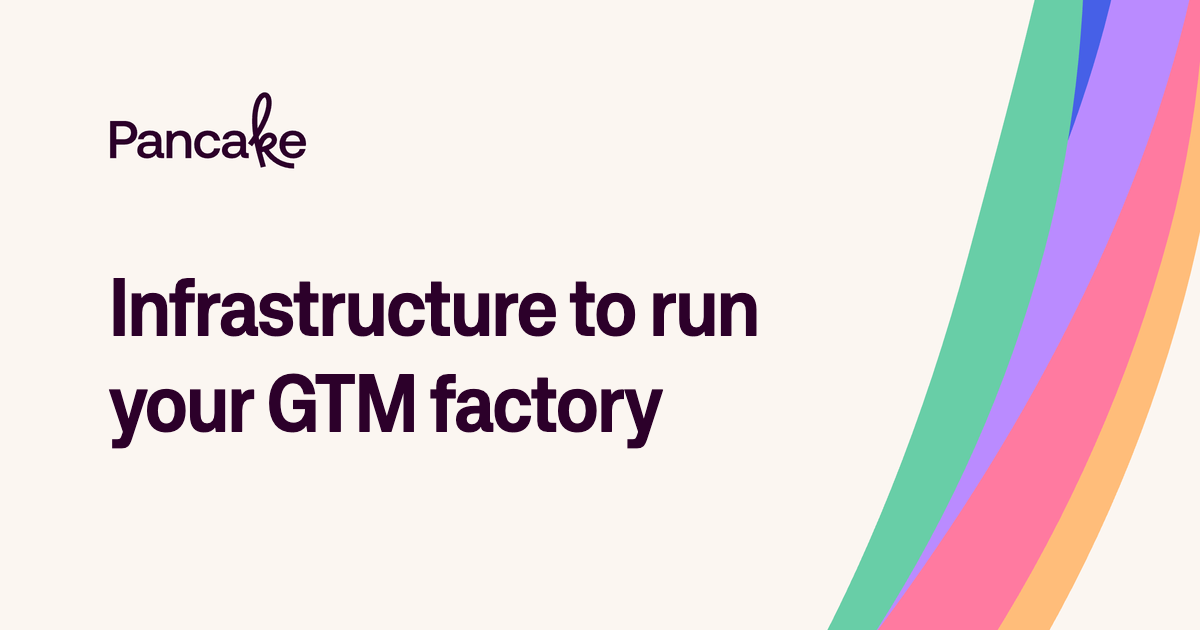
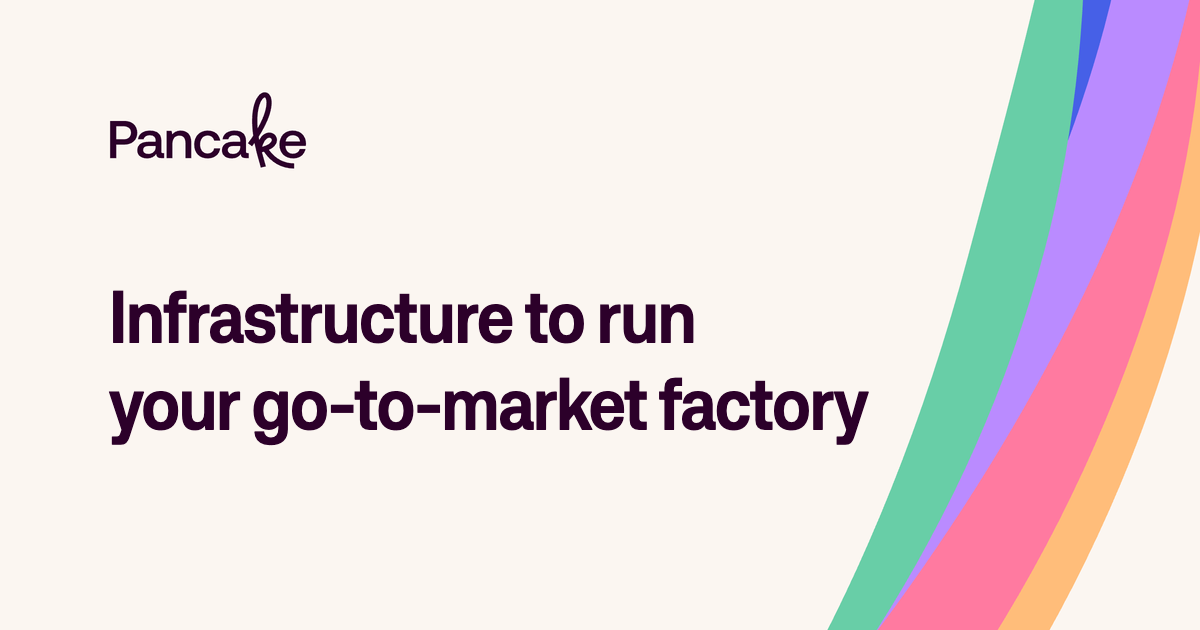
feat(home): the big H1, "Infrastructure to run / your go-to-market factory"
Founder 2026-10-27: "let's make the h1 way bigger like it's the trend",
"should be in 2 lines", "Maybe write go-to-market".

- Desktop: the H1 runs from the designer's text column to the nav's right
  edge, as big as its longer line allows (10.88 em): 111 px from 1440 wide,
  150 at most; on shorter windows it gives way so the rotating rainbow stays
  clear (>= 26 px over the whole loop at 14 sizes, rings.mjs in WebKit; 89 px
  at 1440x780). The lede, the buttons and the toggle sit in one row under it;
  the hero fills the first screen (the demo window's bar peeks again from
  ~980 px tall). The copy no longer scales on short windows.
- Agents view: the mono headline fills the same box (0.705 x the H1), the
  install box and its friends sit in the row, the switch keeps its pixel.
- Tablets and phones: the H1 at the full text width on two lines (30 px on a
  390 phone: the longer line sets it).
- /demo repeats the H1; the share card prints it (og-image-2026-10-27-b.png,
  74 px to stay 57 px off the rainbow), titles and alt text follow.

Changed region(s): [[0.0925, 0.573, 0.74, 0.7238], [0.0925, 0.4222, 0.6475, 0.5429]]

diff --git a/app/_styles/landing-v3/hero.css b/app/_styles/landing-v3/hero.css
@@ -200,54 +200,86 @@
   }
 }
 
-/* ── Homepage hero text block — Figma V2 4911:355 ──────────────────────
-   H1 "Frame 180" 4911:364 (259, 518, 656×160) and the right column "Frame
-   181" 4911:366 (1027, 474, 368×196: toggle row 28, gap 24, lede 72, gap
-   24, buttons 48), both bottom-anchored. V2 draws them at bottom offsets
-   99 / 107; the homepage keeps the founder's 36px drop (2026-09-01 "baisse
-   un peu le bloc h1/h2/cta": the green band ran too close to the "You"),
-   so 63 / 71 — the V2 composition 36px lower (decision 2026-10-09; V2's
-   bands clear the "Y" by ~17px at 99, ~53px here). Both blocks are
-   transform-free (left offsets instead of translateX(-50%)): the agents
-   view's scroll assembly drifts them through .lp-hs-hero (translate/opacity,
-   audience-agents.css), and a scroll driver that writes `transform` would
-   otherwise erase the centring. The humans view no longer moves them
-   (2026-10-12: the hero copy stays put while the window grows). */
-.lp-hero--home .lp-hero-title {
-  bottom: 63px; /* V2 99 − 36 */
-  left: calc(50% - 568px); /* left edge 259 at 1654 (column centre x587) */
-  transform: none;
+/* ── Homepage hero text block — the big H1 (founder, 2026-10-27) ──────────
+   "let's make the h1 way bigger like it's the trend", "should be in 2 lines",
+   "Maybe write go-to-market": "Infrastructure to run / your go-to-market
+   factory". On desktop it runs from the designer's text column (V2's left
+   edge, 259 at 1654, 152 at 1440) to the nav buttons' right edge, as big as
+   its longer line allows: "your go-to-market factory" is 10.88 × the font
+   size wide at -0.03em (÷ 10.95 keeps a hair of slack), so 111 px from 1440
+   wide up, 150 px at most. On shorter windows it gives way to the rainbow:
+   the rotating rings reach y ≈ 530 over the H1's x range at lift 0 (rings.mjs,
+   2026-10-27), so the H1's top ink stays 24 px under that, which is
+   1.84 × size ≤ H − 493 − ROW + LIFT (H and LIFT: "Homepage first screen"
+   below); 40 px at the least. The lede, the buttons and the toggle sit in one
+   row under it, ROW above the hero's bottom: 32 px, 40 where the Product Hunt
+   badge hangs under the buttons (1025–1279, below). V2 drew them as a 368 px
+   column right of a 69 px H1. Both blocks stay transform-free: the agents view's scroll
+   assembly drifts them through .lp-hs-hero (translate/opacity,
+   audience-agents.css). Tablets and phones keep the flow column (toggle, H1,
+   lede, buttons), the H1 at their full text width. On the H1 itself: the
+   agents headline shares .lp-hero-title's box (audience-agents.css). */
+@media (min-width: 1025px) {
+  .lp-hero.lp-hero--home {
+    --lp-hero-left: max(48px, calc(50vw - 568px));
+    --lp-hero-right: max(32px, calc(50vw - 648px));
+    --lp-hero-row-b: 32px;
+    --lp-hero-h1: clamp(
+      40px,
+      min(
+        calc((100vw - var(--lp-hero-left) - var(--lp-hero-right)) / 10.95),
+        calc((var(--lp-hero-h) - 493px - var(--lp-hero-row-b) + var(--lp-hero-lift)) / 1.84)
+      ),
+      150px
+    );
+  }
+  /* the edges are measured from the page's left: no 1654 frame */
+  .lp-hero--home .lp-hero-inner {
+    max-width: none;
+  }
+  .lp-hero--home .lp-hero-title,
+  .lp-hero--home .lp-hero-aside {
+    left: var(--lp-hero-left);
+    right: var(--lp-hero-right);
+    transform: none;
+    width: auto;
+  }
+  .lp-hero--home .lp-hero-title {
+    bottom: calc(var(--lp-hero-row-b) + 72px); /* the row's 48 + 24 */
+    font-size: var(--lp-hero-h1);
+    letter-spacing: -0.03em;
+    line-height: 0.92;
+  }
 }
-/* The humans H1 since 2026-10-27: "Infrastructure to run / your GTM factory"
-   (founder), two lines at V2's place and size, as the H1s before it (2026-10-13:
-   "in 2 lines, same placement as in the figma, same as when it was the previous
-   h1"). Its first line is the longer one, 7.73 × the font size wide (533 px at
-   69.014; "that bring you customers" was 9.6 ×): 235 px before the right column
-   from 1201 wide up. Where the layout gets tight it is the only thing that
-   gives, so the line never runs into the column nor into the phone's 32 px
-   gutter; with this line the designer's clamps decide down to 320 wide. On the
-   H1 itself: the agents headline shares .lp-hero-title's box and size. */
-@media (min-width: 1025px) and (max-width: 1200px) {
-  .lp-hero--home #lp-hero-title {
-    font-size: min(clamp(52px, 5.4vw, 69.014px), calc((100vw - 512px) / 7.8));
+@media (min-width: 1025px) and (max-width: 1279px) {
+  .lp-hero.lp-hero--home {
+    --lp-hero-row-b: 40px;
+  }
+}
+@media (max-width: 1024px) {
+  .lp-hero--home .lp-hero-title {
+    font-size: calc((100vw - 96px) / 10.95);
+    letter-spacing: -0.03em;
+    line-height: 0.92;
   }
 }
 @media (max-width: 767px) {
-  .lp-hero--home #lp-hero-title {
-    font-size: min(clamp(30px, 8.846vw, 35.559px), calc((100vw - 64px) / 7.8));
+  .lp-hero--home .lp-hero-title {
+    font-size: calc((100vw - 64px) / 10.95);
   }
 }
 /* "go-to-market" in the lede never breaks at a hyphen (LpHero.tsx) */
 .lp-hero-nobr { white-space: nowrap; }
+/* The row under the H1 (≥1025; ≤1024 the aside dissolves, below): the swap
+   cell (the lede and the buttons, or the agents' install line) on the left,
+   the toggle at the right end, on the H1's right edge. */
 .lp-hero--home .lp-hero-aside {
-  align-items: flex-start;
-  bottom: 71px; /* V2 107 − 36 */
+  align-items: center;
+  bottom: var(--lp-hero-row-b, 32px);
   display: flex;
-  flex-direction: column;
-  gap: 24px; /* Figma itemSpacing 24 */
-  left: calc(50% + 200px); /* left edge 1027 at 1654 (column centre x1211) */
+  gap: 32px;
+  justify-content: space-between;
   position: absolute;
-  width: 368px;
 }
 /* The swap cell: the human column (lede + buttons) and the agent column
    overlay in one grid area; the human one sizes it in both views
@@ -276,60 +308,64 @@
   align-self: start;
   height: 0;
 }
-@media (max-width: 1200px) {
-  .lp-hero--home .lp-hero-title {
-    left: 48px;
+/* ≥1025 the cell is the row's left part: the lede and the buttons side by
+   side. The agents' column lays its install box and friends row side by side
+   too, centred on the row with height 0, so the toggle never moves. */
+@media (min-width: 1025px) {
+  .lp-hero--home .lp-hero-swap {
+    max-width: none;
+    order: -1;
+    width: auto;
   }
-  .lp-hero--home .lp-hero-aside {
-    left: auto;
-    right: 48px;
+  .lp-hero--home .lp-hero-col--human {
+    align-items: center;
+    flex-direction: row;
+    gap: 40px;
+  }
+  .lp-hero--home .lp-hero-lede {
+    width: 420px;
+  }
+  /* the agents' mono labels make the row 10 px wider (236 against 226): one
+     box for both views, so the switch keeps its pixel at the row's end */
+  .lp-hero--home .lp-audience-selector {
+    width: 236px;
+  }
+  .lp-hero--home .lp-hero-swap > .lp-hero-col--agent {
+    align-self: center;
+    justify-content: center;
+  }
+  .lp-hero--home .lp-agent-start {
+    align-items: center;
+    flex-direction: row;
+    gap: 24px;
+    width: 740px;
+  }
+  .lp-hero--home .lp-agent-prompt--hero {
+    flex: 1;
   }
 }
-/* ── Homepage first screen (≥1025) — founder 2026-10-12, _decisions §10 ──
-   "The designer page is built so that the top of this product footage
-   appears in the hero 100vh": the demo window's top bar peeks at the bottom
-   of the first screen on every desktop window height. The window sits 26px
-   under the hero (demo.css), so the hero stops 96px above the fold: 26 of
-   inset + 70 of window. With svh = the frozen viewport height (--lp-svh):
+/* ── Homepage first screen (≥1025) ──────────────────────────────────────
+   Since the big H1 (2026-10-27) the hero fills the first screen: the H1 and
+   its row sit at the bottom of the window, and the demo window starts at the
+   fold. Its top bar used to peek above it (founder 2026-10-12, _decisions
+   §10); the big H1 takes that room, and from a 980 px tall window up the hero
+   stops at 860 so the bar shows again. With svh = the frozen viewport height
+   (--lp-svh):
 
-     H    = clamp(380, max(svh − 216, min(544, svh − 120)), 657)
-            ≥ 873 tall   657        the designer's hero; more of the window
-                                    shows as the window gets taller
-            760 – 873    svh − 216  hero bottom at svh − 96: the 96px peek
-            664 – 760    544        the peek tapers from 96 to 0
-            < 664        svh − 120  no peek; copy and CTAs stay above the fold
-                                    (down to the 380 floor, a 500px window)
+     H    = clamp(560, svh − 120, 860)
      LIFT = clamp(0, (873 − svh) × 0.3, 34), and 60 at ≤ 639 tall (the /agents
             tier's own −180): the art rises a little on short windows
-     s    = clamp(0.66, (H − 358 + LIFT) / 299, 1): the copy block's scale
-            about its bottom centre (1 from an 873-tall window up, where
-            the hero reaches the designer's 657)
 
-   Together the constants keep the rotating rainbow at least 42px off the
-   headline at every height, over the whole 20s loop (measured:
-   impl/first-screen-peek.md; the decision's first divisor, 286, let it
-   dip to 31.6px around 855 tall). Continuous, so
-   nothing snaps at a tier edge (the 639 lift aside); every term eases with
-   the hero's own 450ms glide when the frozen height lands.
+   The copy no longer scales: the H1's size follows the window's width.
    Specificity: one class more than the /agents tiers above, so the homepage
-   wins at every height whatever the order (height 0,2,0 vs 0,1,0; copy
-   transform and art top 0,2,0 vs 0,1,0). */
+   wins at every height whatever the order (0,2,0 vs 0,1,0). */
 @media (min-width: 1025px) {
   .lp-hero.lp-hero--home {
     --lp-hero-lift: clamp(0px, (873px - var(--lp-svh, 100svh)) * 0.3, 34px);
-    --lp-hero-h: clamp(
-      380px,
-      max(var(--lp-svh, 100svh) - 216px, min(544px, var(--lp-svh, 100svh) - 120px)),
-      657px
-    );
-    /* engines without CSS trig (Safari < 15.4, Chromium < 111, Firefox <
-       108) cannot divide two lengths: three safe steps, each the smallest
-       value the formula takes in its band, so the copy is never larger */
-    --lp-hero-s: 1;
+    --lp-hero-h: clamp(560px, calc(var(--lp-svh, 100svh) - 120px), 860px);
   }
   .lp-hero--home .lp-hero-inner {
-    transform: scale(var(--lp-hero-s)) translateZ(0);
-    transform-origin: 50% 100%;
+    transform: translateZ(0);
   }
   /* The art lifts with the short windows; its clip follows the hero's
      bottom. The section is positioned (isolation), so its art would paint
@@ -347,33 +383,9 @@
     top: calc(-120px - var(--lp-hero-lift));
   }
 }
-@media (min-width: 1025px) and (max-height: 872px) {
-  .lp-hero.lp-hero--home {
-    --lp-hero-s: 0.73;
-  }
-}
-@media (min-width: 1025px) and (max-height: 663px) {
-  .lp-hero.lp-hero--home {
-    --lp-hero-s: 0.66;
-  }
-}
 @media (min-width: 1025px) and (max-height: 639px) {
   .lp-hero.lp-hero--home {
     --lp-hero-lift: 60px;
-  }
-}
-/* a unitless ratio of two lengths: tan(atan2(a, b)) = a / b (the idiom of
-   the fit scales, anim.css). After the steps above: same specificity, so
-   it wins wherever the engine can compute it. */
-@supports (transform: scale(tan(atan2(1px, 1px)))) {
-  @media (min-width: 1025px) {
-    .lp-hero.lp-hero--home {
-      --lp-hero-s: clamp(
-        0.66,
-        tan(atan2(var(--lp-hero-h) - 358px + var(--lp-hero-lift), 299px)),
-        1
-      );
-    }
   }
 }
 /* the clip eases with the lift and the height it is made of (same curve,
@@ -581,6 +593,17 @@
   height: 44px;
   max-width: none;
   width: auto;
+}
+/* 1025–1279, under the big H1's row: 40 px of room to the hero's bottom (the
+   row's ROW), so the phone size, 32 tall and 8 under the buttons */
+@media (min-width: 1025px) and (max-width: 1279px) {
+  .lp-hero--home .lp-hero-ph {
+    border-radius: 7px;
+    top: calc(100% + 8px);
+  }
+  .lp-hero--home .lp-hero-ph img {
+    height: 32px;
+  }
 }
 /* ≥1280 the nav bar carries the badge (nav.css, where V1 had it): never both */
 @media (min-width: 1280px) {

diff --git a/lib/social-meta.ts b/lib/social-meta.ts
@@ -25,20 +25,22 @@ export const X_HANDLE = "@getpancake_ai";
  * "You run your company. We bring you customers." until then, then "Deploy GTM ideas that
  * bring you customers" (og-image-2026-10.png). 2026-10-27: the new H1, "Infrastructure to
  * run your GTM factory", set as the card was drawn (Aeonik Condensed 600, 82 px, line pitch
- * 96, left 109, tracking -0.0206em, #2c002a on #fbf6f1; the rainbow untouched). The file has
+ * 96, left 109, tracking -0.0206em, #2c002a on #fbf6f1; the rainbow untouched:
+ * og-image-2026-10-27.png), then "your go-to-market factory" (og-image-2026-10-27-b.png): its
+ * longer second line is set at 74 px / 87 to stay 57 px off the rainbow. The file has
  * a NEW name because chat apps and social networks keep a picture by its address: the same
  * address would keep showing the old headline. /og-image.png holds the same new picture,
  * for any page or post that still points at it. When this card changes again: new file
  * name here, and the app's own copy too (pancake-cmo apps/frontend/index.html).
  */
-export const OG_IMAGE = "/og-image-2026-10-27.png";
+export const OG_IMAGE = "/og-image-2026-10-27-b.png";
 
 /** Alt text = the text printed in the card (audit 8.4), never the page's own name. */
-export const OG_IMAGE_ALT = "Infrastructure to run your GTM factory";
+export const OG_IMAGE_ALT = "Infrastructure to run your go-to-market factory";
 
 /** og:title / twitter:title of the homepage and of the root-layout fallback (one
  *  punctuation for both, audit 6.13). The homepage <title> stays exactly "Pancake". */
-export const HOME_SOCIAL_TITLE = "Pancake — Infrastructure to run your GTM factory";
+export const HOME_SOCIAL_TITLE = "Pancake — Infrastructure to run your go-to-market factory";
 
 export type SocialImage = {
   url: string;

diff --git a/app/_styles/landing-v3/audience-agents.css b/app/_styles/landing-v3/audience-agents.css
@@ -177,6 +177,18 @@ body:has(.lp-audience-page[data-audience="agents"]) { background-color: var(--lp
 @media (max-width: 767px) {
   .lp-agent-headline { font-size: min(28.85px, calc((100vw - 64px) / 11.2)); }
 }
+/* Homepage since the big H1 (2026-10-27, hero.css): the two rows (2.607 em) fill the H1's box,
+   two lines at line-height 0.92 = 1.84 × its size, so 0.705 × the H1's size (83 px at 1440;
+   row 2 is then 7.9 × the H1 wide, well inside its 10.88). */
+@media (min-width: 1025px) {
+  .lp-hero--home .lp-agent-headline { font-size: calc(var(--lp-hero-h1) * 0.705); }
+}
+@media (max-width: 1024px) {
+  .lp-hero--home .lp-agent-headline { font-size: calc((100vw - 96px) / 10.95 * 0.705); }
+}
+@media (max-width: 767px) {
+  .lp-hero--home .lp-agent-headline { font-size: calc((100vw - 64px) / 10.95 * 0.705); }
+}
 /* Production typing, two rows: the crossfade (240 ms) first, then 27 glyphs over 1600 ms (letter
    .04, space and line break .12). Cursor 1 rides row 1 and goes out with its last glyph; cursor 2
    takes over at the start of row 2, follows the typing, then blinks — paused off screen

diff --git a/app/_styles/demo.css b/app/_styles/demo.css
@@ -133,12 +133,12 @@
     justify-content: flex-start;
   }
 }
-/* + .lp-display = Condensed 600. The homepage H1 since 2026-10-27: its first
-   line, "Infrastructure to run", is 7.73 times the font size wide at this
-   tracking, so the size is the breakpoint's token or the column's width / 7.8,
+/* + .lp-display = Condensed 600. The homepage H1 since 2026-10-27: its second
+   line, "your go-to-market factory", is 10.88 times the font size wide at this
+   tracking, so the size is the breakpoint's token or the column's width / 10.95,
    whichever is smaller: two lines at every width, never three. */
 .demo-title {
-  font-size: min(var(--demo-title-size), calc(100cqi / 7.8));
+  font-size: min(var(--demo-title-size), calc(100cqi / 10.95));
   line-height: 1.05;
   letter-spacing: -0.03em;
   margin-block: var(--lp-space-4);

diff --git a/lib/copy.ts b/lib/copy.ts
@@ -28,7 +28,7 @@ import {
  * seconds" (LpAudienceHeadline.tsx). His second pass that day: the first was
  * H1 "Agentic infrastructure to run your go-to-market" over a longer lede.
  * 2026-10-27: the lede stays under the founder's new H1, "Infrastructure to
- * run your GTM factory".
+ * run your go-to-market factory" ("GTM" until his "Maybe write go-to-market").
  */
 export const SITE_DESCRIPTION =
   "Pancake gives your agent the brain, the data and the tools to run your go-to-market.";

diff --git a/components/sections/landing-v3/LpAudienceHeadline.tsx b/components/sections/landing-v3/LpAudienceHeadline.tsx
@@ -111,7 +111,7 @@ export function AudienceHeadline() {
 
   return <>
     <h1 id="lp-hero-title" className="lp-hero-title__copy" aria-hidden={agents}>
-      Infrastructure to run <br />your GTM factory
+      Infrastructure to run <br />your <span className="lp-hero-nobr">go-to-market</span> factory
     </h1>
     <span
       className="lp-hero-title__copy lp-hero-title__copy--agent"

diff --git a/components/sections/demo/demo-copy.ts b/components/sections/demo/demo-copy.ts
@@ -32,7 +32,7 @@ export const META = {
  */
 export const HERO = {
   titleLine1: "Infrastructure to run",
-  titleLine2: "your GTM factory",
+  titleLine2: "your go-to-market factory",
   ledeBefore: "Pancake gives your agent the brain, the data and the tools to run your ",
   ledeNowrap: "go-to-market",
   ledeAfter: ".",
